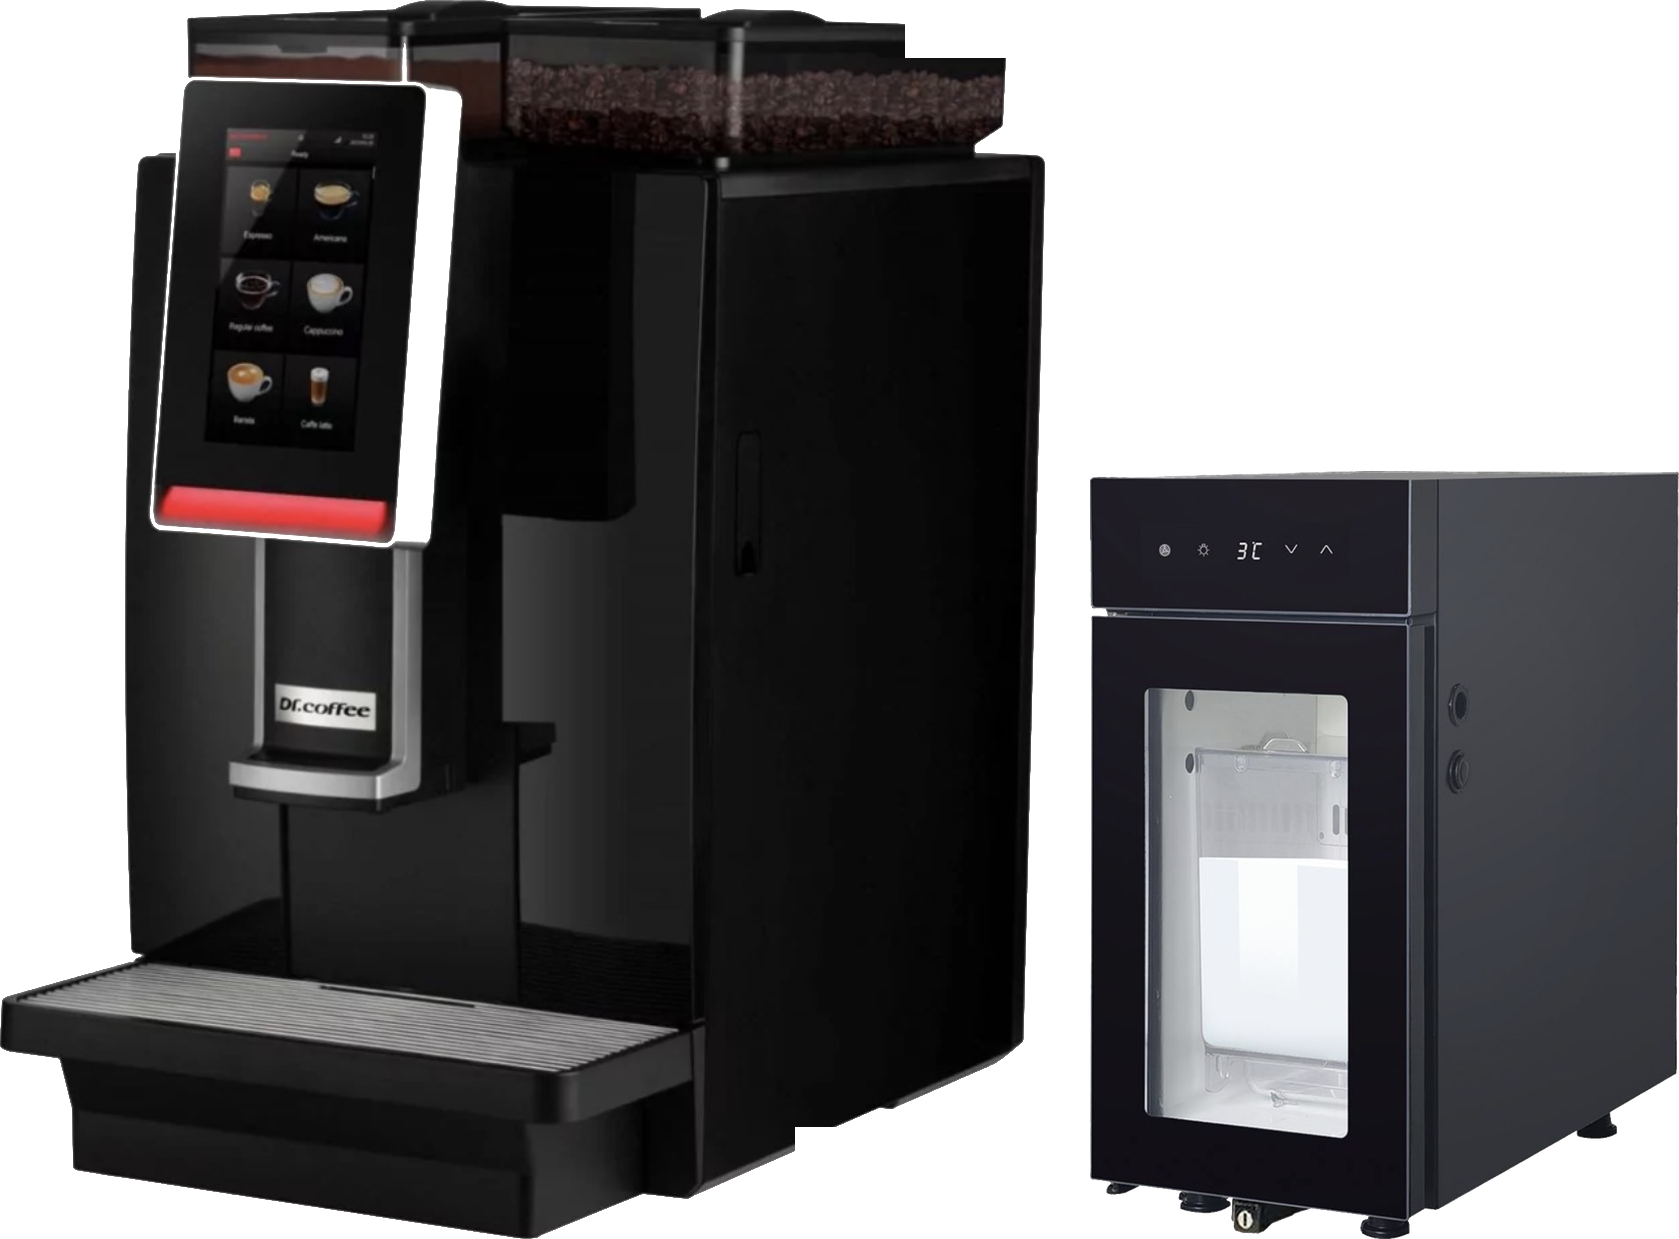
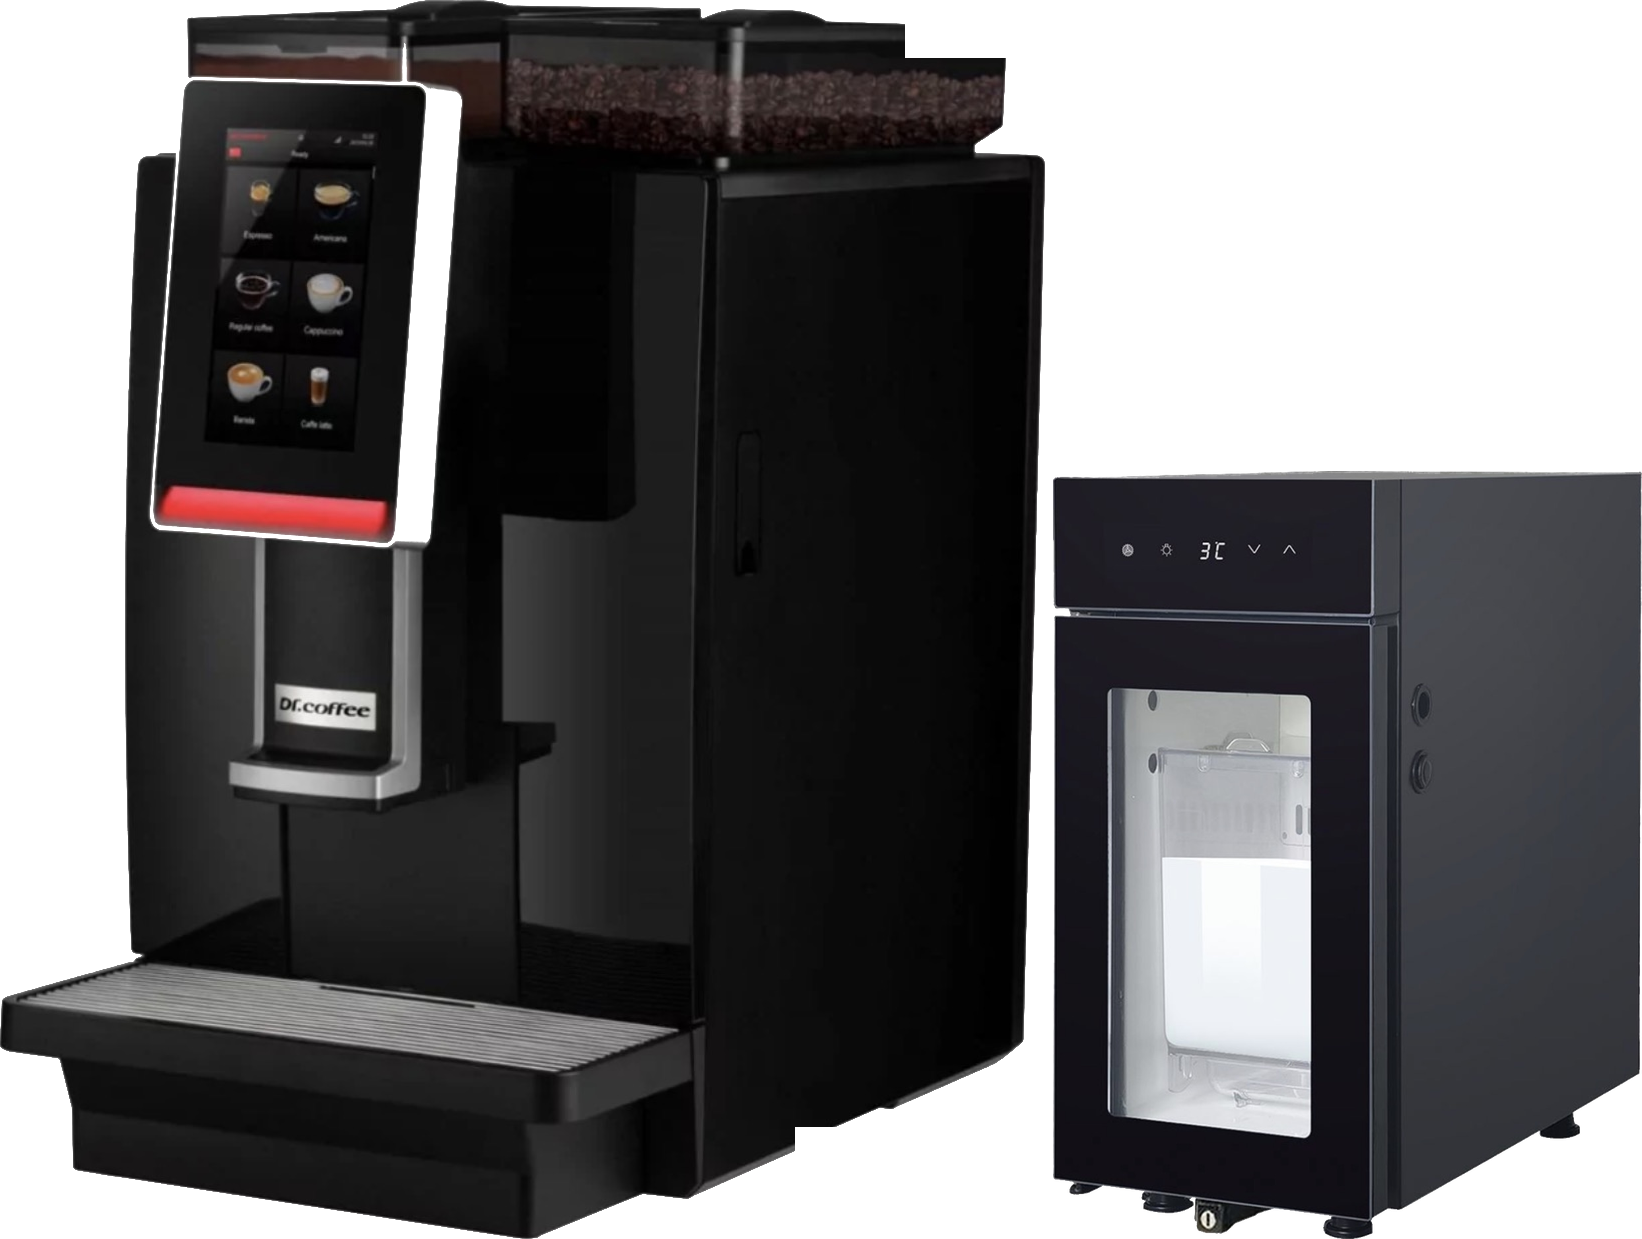
Position milk fridge flush against each Dr. Coffee machine
Per client reference, the machine and fridge should read as one
integrated unit rather than two separate boxes with a gap. Shrink the
composite gap to a hairline for Minibar S and Coffeebar Plus and
re-derive callout coordinates for the tighter layout.

Claude-Session: https://claude.ai/code/session_01MUKCyPTyYMVNaSP63UTGSX

diff --git a/src/lib/machines.ts b/src/lib/machines.ts
@@ -68,14 +68,14 @@ export const MACHINES: Machine[] = [
     ],
     photo: {
       src: "/machines/dr-coffee-minibar-s-with-fridge.png",
-      aspectClassName: "aspect-[1679/1239]",
+      aspectClassName: "aspect-[1642/1239]",
       marginPct: 14,
       callouts: [
         { x: 0.3, y: 0.06, label: "24–30 напоїв", side: "left" },
         { x: 0.19, y: 0.2, label: "Простий екран", side: "left" },
         { x: 0.2, y: 0.53, label: "Молочна піна", side: "left" },
-        { x: 0.745, y: 0.445, label: "Регульована температура", side: "right" },
-        { x: 0.73, y: 0.72, label: "Молоко в комплекті", side: "right" },
+        { x: 0.735, y: 0.445, label: "Регульована температура", side: "right" },
+        { x: 0.72, y: 0.72, label: "Молоко в комплекті", side: "right" },
       ],
     },
   },
@@ -97,7 +97,7 @@ export const MACHINES: Machine[] = [
     ],
     photo: {
       src: "/machines/dr-coffee-coffeebar-plus-with-fridge.png",
-      aspectClassName: "aspect-[683/504]",
+      aspectClassName: "aspect-[47/36]",
       marginPct: 14,
       callouts: [
         { x: 0.42, y: 0.05, label: "Металевий корпус", side: "left" },
